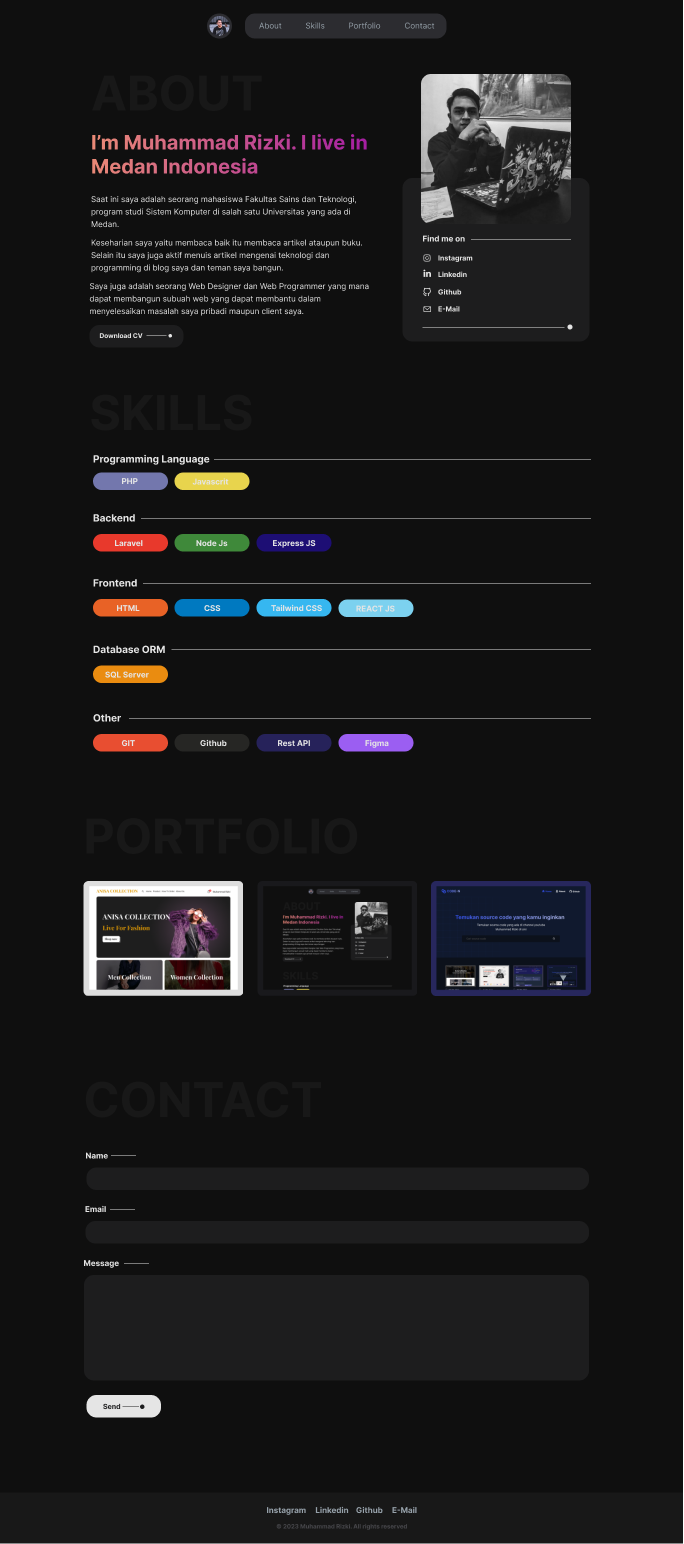
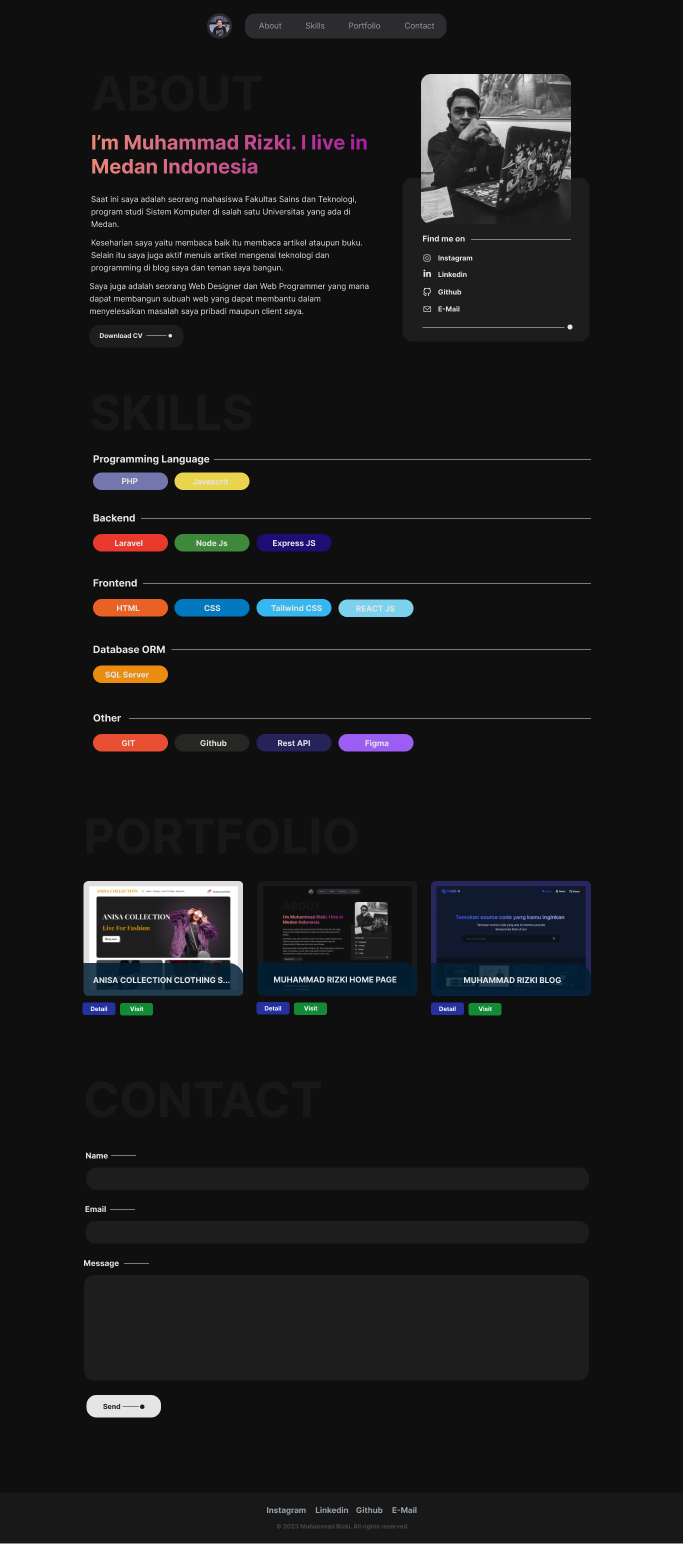
finish

Changed region(s): [[0.1228, 0.6218, 0.8596, 0.6839]]

diff --git a/public/js/script.js b/public/js/script.js
@@ -1,30 +1,17 @@
 const navDesktop = document.querySelector(".nav-desktop");
-const profil = document.querySelector(".profil");
 
 window.addEventListener("scroll", () => {
     if (window.pageYOffset > 100) {
         navDesktop.classList.add("nav-opacity");
-        profil.classList.add("nav-opacity");
     } else {
         navDesktop.classList.remove("nav-opacity");
-        profil.classList.remove("nav-opacity");
     }
 });
 navDesktop.addEventListener("mouseenter", () => {
     navDesktop.classList.add("nav-shadow");
-    profil.classList.add("nav-shadow");
 });
 navDesktop.addEventListener("mouseleave", () => {
     navDesktop.classList.remove("nav-shadow");
-    profil.classList.remove("nav-shadow");
-});
-profil.addEventListener("mouseenter", () => {
-    navDesktop.classList.add("nav-shadow");
-    profil.classList.add("nav-shadow");
-});
-profil.addEventListener("mouseleave", () => {
-    navDesktop.classList.remove("nav-shadow");
-    profil.classList.remove("nav-shadow");
 });
 
 const cardPortfolio = document.querySelectorAll(".card-portfolio");
@@ -159,13 +146,9 @@ function messageCheck() {
 
     } else {
         buttonSend.disabled = true;
-        buttonSend.style.opacity = "0.4";
-        send.style.color = "#9a9a9a";
-        line.style.backgroundColor = "#9a9a9a";
-        bullet.style.backgroundColor = "#9a9a9a";
+        buttonSend.style.opacity = "0.1";
+        send.style.color = "#696969";
+        line.style.backgroundColor = "#696969";
+        bullet.style.backgroundColor = "#696969";
     }
 }
-
-const d = new Date();
-let year = d.getFullYear();
-document.getElementById("copyright").innerHTML = year;

diff --git a/resources/css/app.css b/resources/css/app.css
@@ -182,7 +182,7 @@ html {
 }
 
 .buttonSend {
-    opacity: 0.4;
+    opacity: 0.1;
 }
 
 .containerDetailPortfolio {

diff --git a/resources/views/home.blade.php b/resources/views/home.blade.php
@@ -35,26 +35,26 @@
 <body class="bg-body" id="home">
     <!-- nav mobile -->
     <div class="nav-mobile bg-black-nav w-full fixed z-30 bottom-0 py-3 flex justify-evenly items-center md-768:hidden">
-        <a href="#about" class="text-black-list text-sm font-bold hover:text-white-primary">About</a>
+        <a href="#about" class="text-black-list text-sm font-bold hover:text-white-primary cursor-default md-768:cursor-pointer">About</a>
         <span class="bg-[#484e53] w-[1px] h-2"></span>
-        <a href="#skills" class="text-black-list text-sm font-bold hover:text-white-primary">Skills</a>
+        <a href="#skills" class="text-black-list text-sm font-bold hover:text-white-primary cursor-default md-768:cursor-pointer">Skills</a>
         <span class="bg-[#484e53] w-[1px] h-2"></span>
-        <a href="#portfolio" class="text-black-list text-sm font-bold hover:text-white-primary">Portfolio</a>
+        <a href="#portfolio" class="text-black-list text-sm font-bold hover:text-white-primary cursor-default md-768:cursor-pointer">Portfolio</a>
         <span class="bg-[#484e53] w-[1px] h-2"></span>
-        <a href="#contact" class="text-black-list text-sm font-bold hover:text-white-primary">Contact</a>
+        <a href="#contact" class="text-black-list text-sm font-bold hover:text-white-primary cursor-default md-768:cursor-pointer">Contact</a>
     </div>
 
     <!-- nav desktop -->
     <div class="hidden w-full md-768:flex justify-center fixed z-30 top-0">
-        <div class="mt-7 flex">
+        <div class="nav-desktop mt-7 flex">
             <!-- profile -->
             <a href="#home" class="">
                 <img src="{{ asset('img/profil-1.png') }}" alt="Muhammad Rizki"
-                    class="profil w-[50px] h-max mr-3 cursor-pointer rounded-full">
+                    class="w-[50px] h-max mr-3 cursor-pointer rounded-full">
             </a>
 
             <!-- list nav -->
-            <div class="nav-desktop bg-black-nav w-[405px] h-12 flex justify-evenly items-center rounded-[20px] ">
+            <div class="bg-black-nav w-[405px] h-12 flex justify-evenly items-center rounded-[20px] ">
                 <a href="#about" class="text-black-list hover:text-white-primary">About</a>
                 <a href="#skills" class="text-black-list hover:text-white-primary">Skills</a>
                 <a href="#portfolio" class="text-black-list hover:text-white-primary">Portfolio</a>
@@ -80,26 +80,26 @@
                 </div>
 
                 <!-- instagram -->
-                <a href="{{ $medsos->instagram }}" class="flex items-center mt-4">
+                <a href="{{ $medsos->instagram }}" class="flex items-center mt-4 cursor-default md-768:cursor-pointer">
                     <i class="fa-brands fa-instagram"></i>
                     <p class="text-sm font-bold ml-3">Instagram</p>
                 </a>
 
                 <!-- LinkedIn -->
                 <a href="{{ $medsos->linkedin }}"
-                    class="flex items-center mt-2 md-950:mt-3">
+                    class="flex items-center mt-2 cursor-default md-768:cursor-pointer md-950:mt-3">
                     <i class="fa-brands fa-linkedin-in"></i>
                     <p class="text-sm font-bold ml-3">LinkedIn</p>
                 </a>
 
                 <!-- github -->
-                <a href="{{ $medsos->github }}" class="flex items-center mt-2 md-950:mt-3">
+                <a href="{{ $medsos->github }}" class="flex items-center mt-2 cursor-default md-768:cursor-pointer md-950:mt-3">
                     <i class="fa-brands fa-github"></i>
                     <p class="text-sm font-bold ml-3">Github</p>
                 </a>
 
                 <!-- email -->
-                <a href="{{ $medsos->email }}" class="flex items-center mt-2 md-950:mt-3">
+                <a href="{{ $medsos->email }}" class="flex items-center mt-2 cursor-default md-768:cursor-pointer md-950:mt-3">
                     <i class="fa-regular fa-envelope"></i>
                     <p class="text-sm font-bold ml-3">E-Mail</p>
                 </a>
@@ -129,7 +129,7 @@
             <p class="mt-3 md-950:leading-[26px]">{{ $about->paragraf_three }}</p>
 
             <a href="{{ $medsos->cv }}"
-                class="w-max bg-black-follow mt-5 py-3 px-5 rounded-[20px] flex items-center hover:bg-black-nav">
+                class="w-max bg-black-follow mt-5 py-3 px-5 rounded-[20px] flex items-center cursor-default md-768:cursor-pointer hover:bg-black-nav">
                 <p class="text-sm font-semibold">Download CV</p>
                 <span class="bg-white-primary w-[40px] h-[1px] ml-2"></span>
                 <span class="bg-white-primary w-2 h-2 rounded-full ml-1"></span>
@@ -249,12 +249,12 @@
                     <!-- button -->
                     <div class="flex">
                         <!-- button detail -->
-                        <div class="card-portfolio bg-[#25319F] hover:bg-[#3243D8] w-[80px] h-[32px] mr-2 rounded-[10px] flex justify-center items-center text-[12px] font-bold cursor-pointer">Detail</div>
+                        <div class="card-portfolio bg-[#25319F] hover:bg-[#3243D8] w-[80px] h-[32px] mr-2 rounded-[10px] flex justify-center items-center text-[12px] font-bold cursor-default md-768:cursor-pointer">Detail</div>
                         <!-- button visit -->
                         @if ($portfolio->status === 'Development')
-                            <div class="no-link bg-[#138A34] hover:bg-[#20B84B] w-[80px] h-[32px] rounded-[10px] flex justify-center items-center text-[12px] font-bold cursor-pointer">Visit</div>
+                            <div class="no-link bg-[#138A34] hover:bg-[#20B84B] w-[80px] h-[32px] rounded-[10px] flex justify-center items-center text-[12px] font-bold cursor-default md-768:cursor-pointer">Visit</div>
                         @else
-                            <a target="_blank" href="{{ $portfolio->web_link }}" class="bg-[#138A34] hover:bg-[#20B84B] w-[80px] h-[32px] rounded-[10px] flex justify-center items-center text-[12px] font-bold">Visit</a>
+                            <a target="_blank" href="{{ $portfolio->web_link }}" class="bg-[#138A34] hover:bg-[#20B84B] w-[80px] h-[32px] rounded-[10px] flex justify-center items-center text-[12px] font-bold cursor-default md-768:cursor-pointer">Visit</a>
                         @endif
                     </div>
                 </div>
@@ -269,22 +269,22 @@
     @foreach ($portfolios as $portfolio)
     <div class="detail-portfolio hidden flex-col justify-end bg-[#00000083] fixed z-40 top-0 right-0 bottom-0 left-0">
         {{-- container detail portfolio --}}
-        <div class="containerDetailPortfolio bg-black-follow w-full h-[90vh] flex flex-col rounded-t-[20px] overflow-hidden lg-1000:w-[1000px] lg-1000:mx-auto lg-1080:shadow-xl lg-1080:shadow-black">
+        <div class="containerDetailPortfolio bg-black-follow w-full h-[90vh] flex flex-col rounded-t-[20px] overflow-hidden lg-1080:w-[1080px] lg-1080:mx-auto lg-1080:shadow-xl border border-[#ffffff1c] border-b-transparent">
             {{-- header detail portfolio --}}
-            <div class="bg-black-follow w-full h-12 flex justify-between items-center sticky top-0 border border-t-transparent border-r-transparent border-l-transparent border-b-[#272729]">
+            <div class="bg-black-follow w-full h-12 flex justify-between items-center sticky top-0 border border-t-transparent border-r-transparent border-l-transparent border-b-[#ffffff1c]">
                 <h1 class="font-bold pl-3 sm-480:hidden">{{ Str::upper(Str::limit($portfolio->web_name, 20))  }}</h1>
                 <h1 class="font-bold pl-3 hidden sm-480:block sm-650:hidden">{{ Str::upper(Str::limit($portfolio->web_name, 30)) }}</h1>
                 <h1 class="font-bold pl-3 hidden sm-650:block md-860:hidden">{{ Str::upper(Str::limit($portfolio->web_name, 40)) }}</h1>
                 <h1 class="font-bold pl-3 hidden md-860:block lg-1000:hidden">{{ Str::upper(Str::limit($portfolio->web_name, 50)) }}</h1>
                 <h1 class="font-bold pl-3 hidden lg-1000:block">{{ Str::upper(Str::limit($portfolio->web_name, 70)) }}</h1>
 
-                <div class="close-detail-portfolio bg-red-delete w-12 h-full flex justify-center items-center cursor-pointer">
+                <div class="close-detail-portfolio bg-[#ff000011] border border-[#ffffff1c] hover:bg-red-delete w-8 h-8 mr-3 rounded-[5px] flex justify-center items-center cursor-default md-768:cursor-pointer">
                     <i class="fas fa-times text-lg"></i>
                 </div>
             </div>
 
             {{-- container asli portfolio detail --}}
-            <div class="container-asli-portfolio-detail w-full h-full pt-5 flex flex-col overflow-auto md-768:flex-row">
+            <div class="container-asli-portfolio-detail w-full h-full pt-3 flex flex-col overflow-auto md-768:flex-row">
                 {{-- web name, technology, description --}}
                 <div class="w-full px-3 md-768:order-2 md-768:pl-[6px]">
                     {{-- web name --}}
@@ -317,11 +317,11 @@
 
                     @if ($portfolio->status === 'Development')
                         <div class="w-full flex justify-end items-center pb-5">
-                            <div class="no-link-detail bg-[#138A34] hover:bg-[#20B84B] w-28 h-9 mr-2 text-sm font-bold flex justify-center items-center rounded-[20px] cursor-pointer">
+                            <div class="no-link-detail bg-[#138A34] hover:bg-[#20B84B] w-28 h-9 mr-2 text-sm font-bold flex justify-center items-center rounded-[20px] cursor-default md-768:cursor-pointer">
                                 Visit
                             </div>
 
-                            <div class="no-link-detail bg-[#25319F] hover:bg-[#3243D8] w-28 h-9 text-sm font-bold flex justify-center items-center rounded-[20px] cursor-pointer">
+                            <div class="no-link-detail bg-[#25319F] hover:bg-[#3243D8] w-28 h-9 text-sm font-bold flex justify-center items-center rounded-[20px] cursor-default md-768:cursor-pointer">
                                 Repository
                             </div>
                         </div>
@@ -350,14 +350,14 @@
     <!-- no link portfolio -->
     <div class="masih-pengembangan fixed z-50 top-0 right-0 bottom-0 left-0 hidden justify-center items-end md-768:justify-start">
         <p
-            class="masih-pengembangan-dua bg-red-delete font-bold py-3 px-4 rounded-[20px] ml-3 mb-5">
+            class="masih-pengembangan-dua bg-white-primary font-bold py-3 px-4 text-black-follow rounded-[20px] ml-3 mb-5 shadow-lg shadow-black">
             Masih dalam pengembangan!</p>
     </div>
 
     <!-- no link portfolio detail -->
     <div class="masih-pengembangan-detail fixed z-50 top-0 right-0 bottom-0 left-0 hidden justify-center items-end md-768:justify-start">
         <p
-            class="masih-pengembangan-dua-detail bg-red-delete font-bold py-3 px-4 rounded-[20px] ml-3 mb-5">
+            class="masih-pengembangan-dua-detail bg-white-primary font-bold py-3 px-4 text-black-follow rounded-[20px] ml-3 mb-5 shadow-lg shadow-black">
             Masih dalam pengembangan!</p>
     </div>
 
@@ -435,9 +435,9 @@
             </div>
 
             <button type="submit" disabled class="buttonSend bg-[#f1f1f1] w-[150px] h-[45px] flex justify-center items-center rounded-[20px]">
-                <p class="send text-[14px] text-[#9a9a9a] font-bold mr-1">Send</p>
-                <span class="line bg-[#9a9a9a] w-[35px] h-[1px] mr-1"></span>
-                <span class="bullet bg-[#9a9a9a] w-2 h-2 rounded-full"></span>
+                <p class="send text-[14px] text-[#696969] font-bold mr-1">Send</p>
+                <span class="line bg-[#696969] w-[35px] h-[1px] mr-1"></span>
+                <span class="bullet bg-[#696969] w-2 h-2 rounded-full"></span>
             </button>
         </form>
     </div>
@@ -445,7 +445,7 @@
     {{-- contact message berhasil --}}
     @if(session()->has('berhasil'))
         <div class="contact-message fixed z-50 top-0 right-0 bottom-0 left-0 flex justify-center items-end cursor-default md-768:justify-start">
-            <p class="the-message bg-white-primary text-black-about font-bold mb-12 ml-3 py-3 px-4 rounded-[20px] md-768:mb-4">{{ session('berhasil') }}</p>
+            <p class="the-message bg-white-primary text-black-about font-bold mb-12 ml-3 py-3 px-4 rounded-[20px] shadow-lg shadow-black md-768:mb-4">{{ session('berhasil') }}</p>
         </div>
     @endif
         
@@ -460,13 +460,13 @@
     <div class="bg-black-about w-full mt-20 pb-[49px] px-3 flex justify-center md-768:pb-0 md-768:mt-32">
         <div class="flex flex-col">
             <ul class="w-full flex justify-center mt-6 mb-3">
-                <li class="mx-2 text-black-list font-bold hover:text-white-primary"><a href="{{ $medsos->instagram }}">Instagram</a></li>
-                <li class="mx-2 text-black-list font-bold hover:text-white-primary"><a href="{{ $medsos->linkedin }}">LinkedIn</a></li>
-                <li class="mx-2 text-black-list font-bold hover:text-white-primary"><a href="{{ $medsos->github }}">Github</a></li>
-                <li class="mx-2 text-black-list font-bold hover:text-white-primary"><a href="{{ $medsos->email }}">E-Mail</a></li>
+                <li class="mx-2 text-black-list font-bold hover:text-white-primary"><a href="{{ $medsos->instagram }}" class="cursor-default md-768:cursor-pointer">Instagram</a></li>
+                <li class="mx-2 text-black-list font-bold hover:text-white-primary"><a href="{{ $medsos->linkedin }}" class="cursor-default md-768:cursor-pointer">LinkedIn</a></li>
+                <li class="mx-2 text-black-list font-bold hover:text-white-primary"><a href="{{ $medsos->github }}" class="cursor-default md-768:cursor-pointer">Github</a></li>
+                <li class="mx-2 text-black-list font-bold hover:text-white-primary"><a href="{{ $medsos->email }}" class="cursor-default md-768:cursor-pointer">E-Mail</a></li>
             </ul>
 
-            <p class="w-full flex justify-center items-center mb-6 text-[12px] text-[#47474B] font-bold text-center">© <span class="text-[12px] text-[#47474B] font-bold mx-0.5" id="copyright"></span> Muhammad Rizki. All rights reserved</p>
+            <p class="w-full flex justify-center items-center mb-6 text-[12px] text-[#47474B] font-bold text-center">© {{ now()->year }} Muhammad Rizki. All rights reserved</p>
         </div>
     </div>
 

diff --git a/database/seeders/DatabaseSeeder.php b/database/seeders/DatabaseSeeder.php
@@ -4,6 +4,9 @@ namespace Database\Seeders;
 
 // use Illuminate\Database\Console\Seeds\WithoutModelEvents;
 
+use App\Models\About;
+use App\Models\Skill;
+use App\Models\Social;
 use App\Models\User;
 use Illuminate\Database\Seeder;
 use Illuminate\Support\Facades\Hash;
@@ -23,9 +26,5 @@ class DatabaseSeeder extends Seeder
         //     'name' => 'Test User',
         //     'email' => 'test@example.com',
         // ]);
-        User::create([
-            'username' => "muhammadrizki433",
-            'password' => Hash::make('password')
-        ]);
     }
 }
